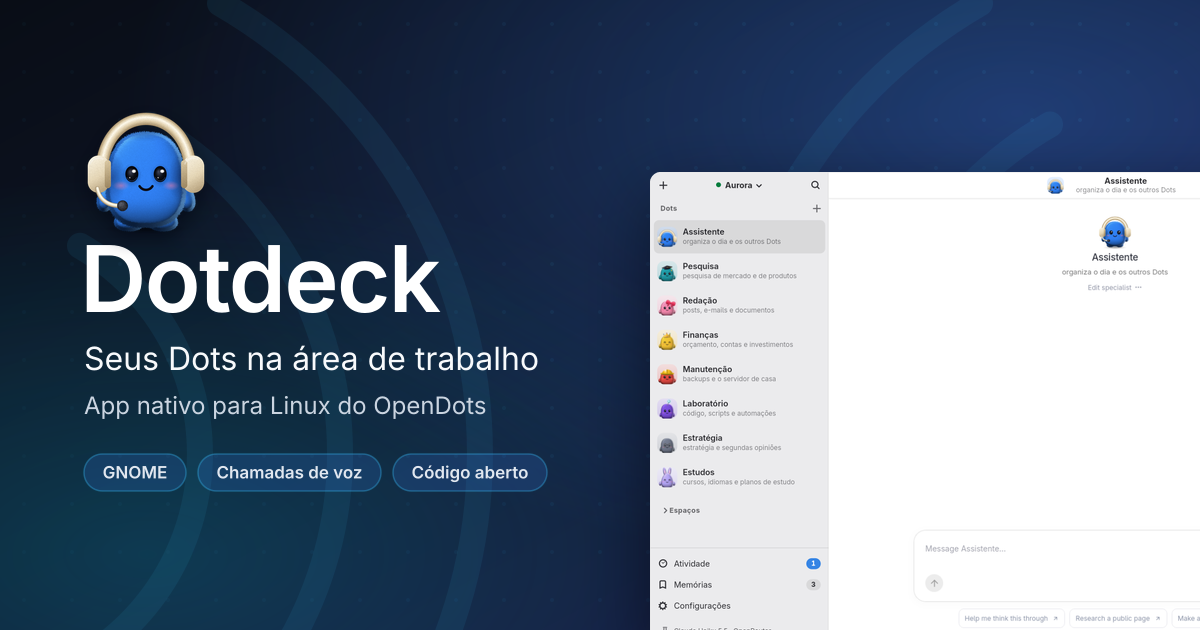
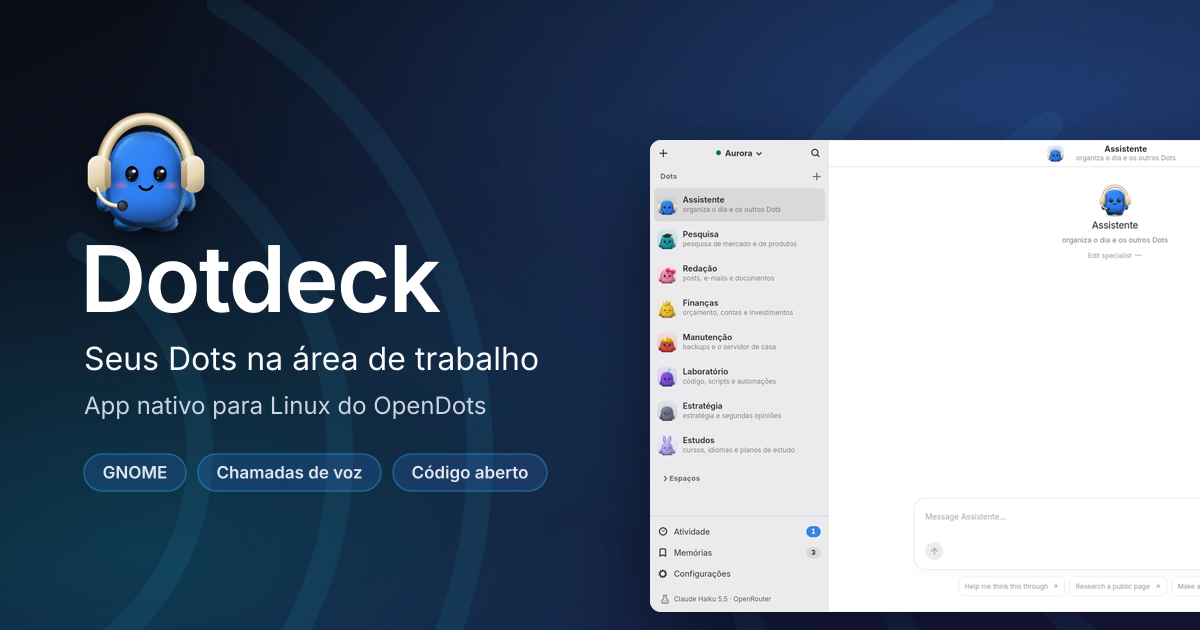
fix(loja): cartão de prévia sem o rodapé da janela cortado
O social-card.png cortava ao meio "Claude Haiku 5.5 · OpenRouter", o
modelo no rodapé da barra lateral: a janela começava em y 172 e, com 842 ×
0,56 ≈ 472 px, passava da borda de baixo (630). Agora começa em y 140 e
termina em 612; só a borda direita continua sangrando. Os outros slides e o
banner saem idênticos (conferido pixel a pixel).

tools/store_assets.py --out fora do repositório quebrava no relative_to ao
imprimir o caminho; agora imprime o caminho como está.

diff --git a/tools/store_assets.py b/tools/store_assets.py
@@ -238,12 +238,17 @@ def place_icon(canvas: Image.Image, size: int, pos: tuple[int, int]) -> Image.Im
     return layer(canvas, icon, pos)
 
 
+def shown(path: Path) -> Path:
+    """The path relative to the repository when it is inside it (``--out`` may be elsewhere)."""
+    return path.relative_to(ROOT) if path.is_relative_to(ROOT) else path
+
+
 def save(image: Image.Image, path: Path) -> None:
     image.convert("RGB").save(path, optimize=True)
     size = path.stat().st_size
     if size > MAX_BYTES:
         raise SystemExit(f"{path.name} has {size} bytes, over the store limit of {MAX_BYTES}")
-    print(f"{path.relative_to(ROOT)}  {image.width}×{image.height}  {size // 1024} KB")
+    print(f"{shown(path)}  {image.width}×{image.height}  {size // 1024} KB")
 
 
 def build_slide(slide: Slide, out: Path) -> None:
@@ -280,10 +285,12 @@ def build_social_card(out: Path) -> None:
     )
     canvas = render_svg(backdrop(CARD_SIZE, content), CARD_SIZE)
     canvas = place_icon(canvas, 132, (80, 106))
-    canvas = place(canvas, Window("workspace.png", 650, 172, 0.56))
+    # The window bleeds off the right edge only: its bottom, with the model in the sidebar
+    # footer, stays inside the card (842 × 0.56 ≈ 472 px tall, from y 140 to 612).
+    canvas = place(canvas, Window("workspace.png", 650, 140, 0.56))
     path = out / "social-card.png"
     canvas.convert("RGB").save(path, optimize=True)
-    print(f"{path.relative_to(ROOT)}  {canvas.width}×{canvas.height}  "
+    print(f"{shown(path)}  {canvas.width}×{canvas.height}  "
           f"{path.stat().st_size // 1024} KB")
 
 
@@ -293,7 +300,7 @@ def build_icon(out: Path) -> None:
         q = img.quantize(colors=256, method=Image.Quantize.LIBIMAGEQUANT)
         out_icon = out / "icon.png"
         q.save(out_icon, optimize=True)
-        print(f"{out_icon.relative_to(ROOT)}  {q.width}×{q.height}  {out_icon.stat().st_size // 1024} KB")
+        print(f"{shown(out_icon)}  {q.width}×{q.height}  {out_icon.stat().st_size // 1024} KB")
 
 
 def main() -> None:
